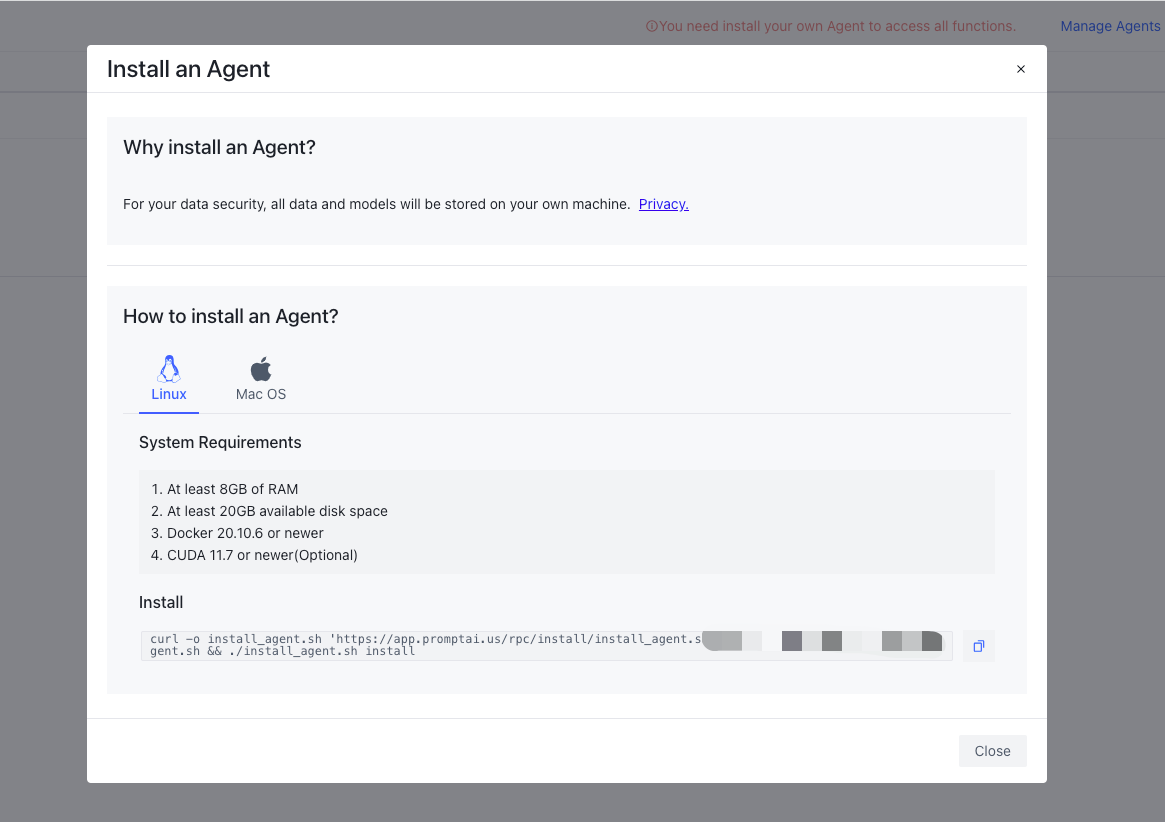
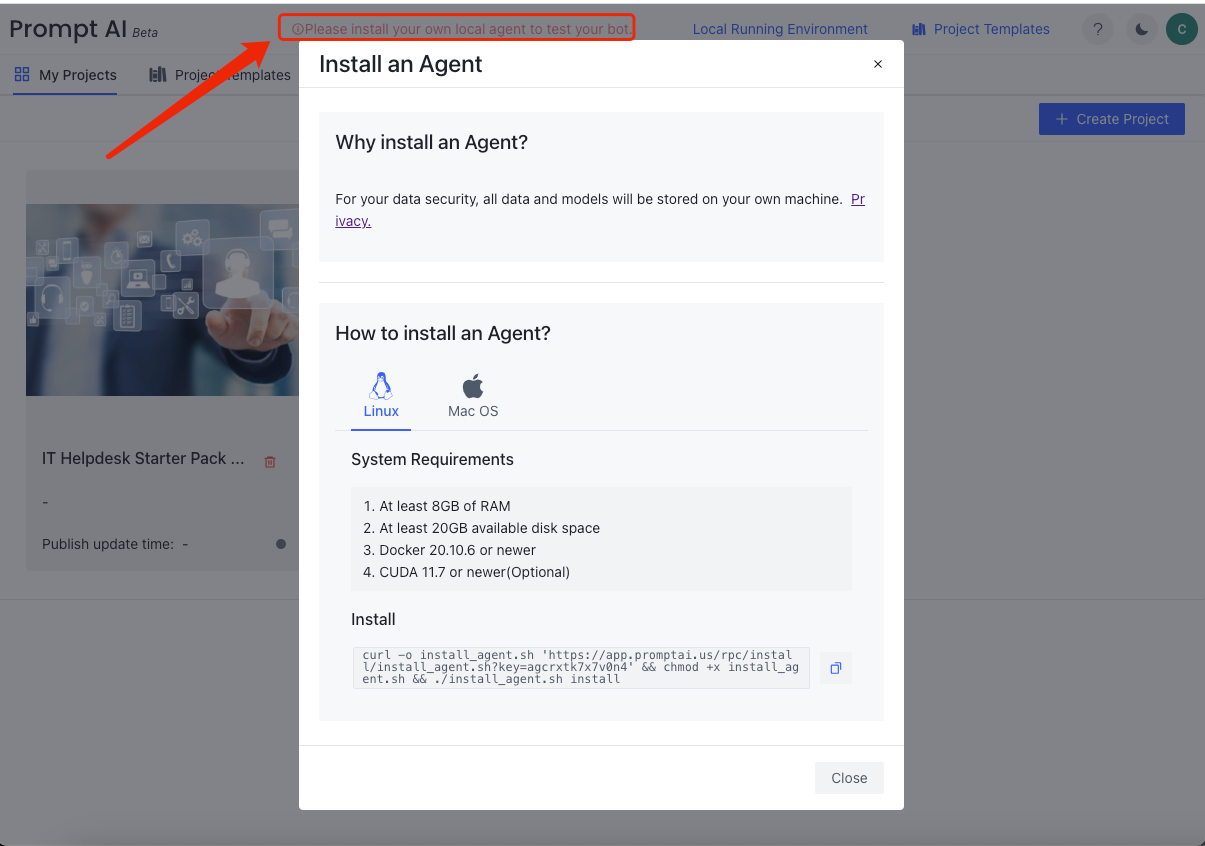
1、update Run Chatbots

diff --git a/docs/run_bots.md b/docs/run_bots.md
@@ -28,10 +28,10 @@ Docker Env :20.10.6 or newer
 - [What id Docker?](https://www.docker.com/)
 - [Install Docker](https://docs.docker.com/get-docker/)
 
-Click `Manage Agents` on the upper right corner.  It will pop up a window where you can add your agent.  Click `+Agent` and then `install agent`.  You  will see the following content.
+Click `Local Running Environment`-`Manage Agents` on the upper right corner.  It will pop up a window where you can add your agent.  Click `+Agent` and then `Install agent`.  You  will see the following content.
+![00-local-running-env.png](/assets/images/local_running_env/00-local-running-env.png)
 
-After logging in to the system, you will see a prompt above the system before creating the first Agent: "You need install your own Agent to access all functions." [what does it mean]
- 
+Or click `Please install your own local agent to test your bot.` [If you can see this notification]
 
 ![01-local-running-env.png](/assets/images/local_running_env/01-local-running-env.png)
 
@@ -182,13 +182,10 @@ Click `Download RASA File` on the top right corner.  The download box will pop u
 * Download current module, download the current dialog flow,
 * Download selected modules, select a collection of multiple dialog flows under the current project,
 * Download all, check all dialog flow diagrams under the current project.
-
-![download-rasa](/assets/images/download_rasa_file_current.jpg)
+![download-rasa](assets/images/download_rasa_file_current.png)
 
 - When the current project has a flow diagram containing error nodes, it will be classified into `Unavailable Modules` in the pop-up box.  Move the mouse over the module to see the number of error messages. The link next to the module name can lead to the corresponding flow diagram for modification.
-  
-![download-rasa-1.png](/assets/images/download_rasa_file_selected.jpg)
-
+![download_rasa_file_selected.png](assets/images/download_rasa_file_selected.png)  
 
 ### Rasa environmental preparation
 
